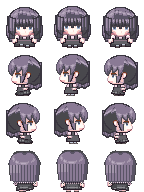
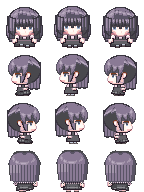
ちびキャラ：横向きにも髪型を反映する（長い髪のまっすぐ・ふんわり、まっすぐな前髪、長い髪の子はボブの形を描かない）
Claude-Session: https://claude.ai/code/session_017gxvkc2TW4xYgG5MuSL3N1

diff --git a/files.js b/files.js
@@ -2,7 +2,7 @@
 // マップなどを足したら scripts に1行足す（順番どおりに読み込む。main.js は最後）。
 // 版の番号 v は tools/stamp.py が書き換える。
 window.FILES = {
-  v: '20261127062417',
+  v: '20261127062615',
   scripts: [
     'engine/core.js',
     'engine/world.js',

diff --git a/tools/sprites/make_chibi.py b/tools/sprites/make_chibi.py
@@ -547,7 +547,10 @@ def long_hair_back(c, side):
     if side == 'down':
         a.part([('p', [(-15.6, 16), (15.6, 16), (16.6, 38 - d), (14.4, 43.6 - d), (11, 42.4 - d), (8, L), (-8, L), (-11, 42.4 - d), (-14.4, 43.6 - d), (-16.6, 38 - d)])],
                c['hair1'], c['hair2'], shade=c['hair2'], line=c['hairLine'])
-    else:  # 横向き：背中側に流れる
+    elif c.get('long_style') == 'straight':  # 横向き・まっすぐ：背中に沿って細く、まっすぐ下りる
+        a.part([('p', [(1, 14), (15.2, 14), (15, 30), (13.6, L - 1), (12, L), (9.6, L - 0.6), (7, L), (4.6, L - 1), (3.6, 30)])],
+               c['hair1'], c['hair2'], shade=c['hair2'], line=c['hairLine'])
+    else:  # 横向き・ふんわり：背中側に広がって流れる
         a.part([('p', [(1, 14), (15.6, 14), (16.4, 34 - d), (15.6, 41 - d), (12.4, L), (9.6, 41.6 - d), (6, 43.6 - d), (3.4, 36 - d), (3, 30)])],
                c['hair1'], c['hair2'], shade=c['hair2'], line=c['hairLine'])
     return a
@@ -568,7 +571,7 @@ def head(a, c, side):
         return
     if side == 'left':
         # 横向き：顔は頭の前・下寄り（x −12〜+1）、後ろに耳。いちばん前の前髪は額の前に垂れる
-        if girl:  # 後ろ髪はあごの高さまで
+        if girl and not c.get('long'):  # 後ろ髪はあごの高さまで（長い髪の子は後ろ髪の層だけで描く）
             a.part([('p', [(1, 14), (15.6, 14), (15.4, 32.6), (10.4, 35.2), (3, 32)])], c['hair1'], c['hair2'], shade=c['hair2'], line=c['hairLine'])
         hm = a.part([('e', -14.2, 7 if girl else 6.4, 14.6, 33)], c['hair1'], c['hair2'], shade=c['hair2'], line=c['hairLine'])
         if isinstance(a, Pixel):
@@ -780,6 +783,8 @@ BANGS_SIDE = (-16, 10, [
 
 def bangs_side(im, c):
     x0, y0, rows = BANGS_SIDE
+    if c.get('bangs') == 'straight':  # まっすぐな前髪：束の間から額をのぞかせず、毛先を目の上でそろえる
+        rows = [''.join('D' if ch in '1234' and y0 + j < 24 else ch for ch in r) for j, r in enumerate(rows)]
     if c['girl']:
         t = [rgb(h) for h in c.get('tones', HAIR_TONES)]
     else:

diff --git a/CLAUDE.md b/CLAUDE.md
@@ -11,7 +11,7 @@
 - 参考にした市販ゲームのファイル（データ・画像・音・シナリオ）はこのリポジトリに入れない
 - タイル素材（ドット絵世界）は二次配布禁止。元のPNGは入れず、`tools/encode_tileset.py` で変換した `data/tilesets/*.js` だけを入れる。タイトル画面の著作権表示（system.js の credits）は消さない
 - キャラの歩行グラフィックは、いまはちびキャラ（手本：RPGツクールMVの標準キャラの比率、約1.5頭身、1コマ48×48px）。`tools/sprites/make_chibi.py` で描き、`img/chars/haru_chibi.png`・`img/chars/yui_chibi.png` に書き出す。塗りは手本と同じくっきりしたドット絵（48×48pxに直接描く。ベタ塗り、段をつけた影と光、部品ごとに1ドットの濃い輪郭、目は1ドットずつ形を決め、白い光はほぼ使わず外側の白目と上が濃い瞳で表す。髪のかたまりは小さめで額は高め、前髪には毛束の明るい筋を1本おきに入れて凹凸を出す。女子の髪は5段（光・明・中・暗・影）で束ごとに塗り分ける（make_chibi.py の hair_shade。頭頂はつむじから放射状の束で境目に暗い線、頭の丸みに沿って束ごとに上下へずれたギザギザの天使の輪（束の真ん中だけ光の色）、前髪は束ごとに上が明るく下ほど暗く真ん中に光の筋、横・後ろの髪は縦の束で左が明るく右と下が暗い。髪型が手本と違うので、ここは手本を写さず工夫したもの）。胴は肩が細く裾へ広がる八の字で、腕も外へ開く。前髪の毛先は目の上端に接するまで下ろし、真ん中の毛束だけ短くしてそのすき間から額をのぞかせる。前髪のすぐ下の肌には影（1段目は影色、2段目は中間色）。顔の横の髪で、目の外側の端からあごの近くまで顔を縁取る（男子は細く短め）。肌は桃色がかった色（白っぽくしない）。顔は上下と左右に4段（明・中間・影・濃い影）の明暗をドット単位でつけて立体感を出す（前髪の下は中間色→目の下から頬の段がいちばん明るい→その下は中間色→あごの段は影色。左右の端は内側へ濃い影→影→中間色、頬の段は影を1段多く）。目はまるごと見せる。やや上から見下ろしつつ足先まで全身を見せる（胴→スカート／ズボン→脚1ドット（女子は肌色）→靴2ドット（上が明るく下が暗い）。左右の足は幅5ドット（輪郭＋中身3）で間に1ドットのすき間。歩くと上げた足が1ドット上がる）。目は顔の大きさを変えずに大きく、5×5ドット（上まつげは3ドット幅で2段目が内側へ1ドットずれる斜め、黒目3ドット幅で上が濃く一番下が明るい、真ん中に縦2ドットの瞳孔、白目は外側3段・内側2段の両側）。目の間は7ドットで、目の外側は顔の縁（横の髪）に接する。見下ろす角度なので、肩はあごのすぐ下の行から始まり（上の面が明るく見える）、なで肩で下へ広がる。手は丸ではなくミトン形（幅4×高さ5、外側の輪郭は茶色・内側と下は濃い線で腕と胴の境目にもなる、明るい肌は真ん中上寄りに2×2、下の段の内側が欠けてその上に親指の付け根の点）。服の輪郭も濃い色。男子はシャツ6段・ベルト1段・ズボン3段（明るめの色、股の線）。女子のスカートは下半分に、地より濃い色の縦の折り目の線（中心をはさんで4ドット間隔の2本と、裾の両端寄り）。口は省いて、鼻は中心の1ドット右に縦2ドットの薄い影（30〜31行、肌の中間色と影色の間の色）で表す（真ん中に濃い点を置くと口に見える）。頬の赤みは鼻より下（32〜33行）に置く（高い位置に置くと鼻が口に見える）。幅の割合は、手を含めた体が頭の約8割。その中で胴は細く、肩と手を大きめにする）。横向き（左向き、前がマイナス）は、顔と胴の形を make_chibi.py の「行ごとの前端・後端の表」（FACE_SIDE・TORSO_SIDE_* など）で決める。手本を拡大して各行の端の位置を測り、その数字をそのまま表に書く（楕円や多角形で近似しない）。横顔は鼻筋がまっすぐ縦に続いたあと鼻で1ドット前に出て（鼻筋から下は顔より前に髪の輪郭を残さない）、その下で輪郭1ドット分の落差をつけてあごへ。あごは34行で終わり（下に出っ張らせない）、前の縁は輪郭線なしで濃い肌色、あごの下だけ濃い輪郭。目は make_chibi.py の EYE_SIDE の表で描く（手本を1ドットずつ測った作り：x −9〜−4、24〜29行。茶色の上まぶたの線が目尻まで続き、黒いまつげ、前の縁は黒、黒目は2ドット幅で上の段に瞳孔、白目は白と灰色の2列、目尻は濃い影の肌、いちばん下の段は明るい黒目。女子は目尻の列が髪にかかる）。目の前端は鼻筋から肌4ドット後ろ。耳のまわりは make_chibi.py の EAR_SIDE_BOY／EAR_SIDE_GIRL の表で描く（手本を1ドットずつ測った作り：縦長のアーモンド形の耳で、上の縁は茶色、前の縁は黒、真ん中がいちばん明るい。耳の前はもみあげの髪で、顔側の縁は暗い髪色。もみあげの下の縁は耳の前から左下へ下りる黒い斜めの線（女子はあごの近くまで垂れる）。耳の下はあご・首の肌が後ろへ続き、その後ろの髪は影の色）。前髪は make_chibi.py の BANGS_SIDE の表で描く（手本を1ドットずつ測った作り：x −16〜+3、10〜26行。前の縁は黒ではなく暗い髪色で、上から前へふくらみ、いちばん前の束は26行まで垂れて顔の前を覆う。前・真ん中・耳の前の3本の束に分かれ、束の間から21〜24行で肌がのぞく。18行から下は束の境目に暗い線、光は前上と後ろ寄りの2か所。色は5段に置き換える）。明暗は前の縁が濃い影、前寄りの頬が最も明るく、耳に近い後ろほど暗い。女子の後ろ髪はあごの高さまで。胴は上が細く（36行で9〜10ドット）前の縁を斜めに下へ広げ、スカート・ズボンの広さとの落差を出す。手は胴の中ほどより後ろに4×5ドット。足元はスカート・ズボンの裾の輪郭が45行、その下は脚1段＋靴1段の2段だけ（46・47行）。靴は脚より1ドット前に出たつま先で表し、輪郭は黒ではなく靴の暗い色。立ち姿は前後の足が並び（46行 −5〜+2、47行 −6〜+2）、歩きのコマ（0・2）の足まわりは make_chibi.py の WALK_SIDE_BOY／WALK_SIDE_GIRL の表で描く（手本を1ドットずつ測った作り：男子は裾が前後の脚に分かれて間に黒い線、前の靴が大きく前に出て3段、後ろの足は脚の上に靴。女子はスカートが歩きに合わせて広がり46行まで下がって、その下は靴だけ。ハルは長ズボンなので手本の素足の部分はズボンの色）。後ろ向きは make_chibi.py の back_frame が tools/sprites/back_tables.py の表から描く（表は gen_back_tables.py で手本の後ろ向きを役割ごとの記号に書き起こしたもの。手本の中心の列（−1）をうちの中心で3列に広げて左右の幅を正面とそろえる。ハルは長ズボンなので足元の肌はズボンの色。ユイは手本のカチューシャを消して頭の上を丸いドームに削り、リボンを左上に足す）。手本を使うときは、拡大して絵そのものを見比べるのに加えて、行ごとの端の位置（前端・後端・上下の終わり）を手本とうちで並べて書き出し、1行ずつずれを確かめてから直す（ざっくりした観察で済ませない）。手順はいつも次のとおりにし、ユーザーに細かく指示されなくても全部やってから報告する：(1) `python3 -I tools/sprites/compare_ref.py 手本.png 向き コマ [行 行 列 列]` で、行ごとの左右の端を手本の男子・ハル・手本の女子・ユイで並べ、指定範囲を色の記号で書き出す（拡大画像は /tmp/compare_*.png）。(2) 部分（頭の形・前髪・目・鼻・耳・首元・肩・胴・手・裾・足）ごとに、端の位置と色の作りを手本と照らす。(3) 違う部分は、形は行ごとの端の表、中身は手本から書き起こした記号の表で描く（色はキャラごとに置き換える）。(4) 直したら同じ道具で全行を確かめ直す。基準は、左の端が手本と同じで、右の端は左右対称（手本の中心は −1、うちは 0 なので手本より右に2ドット広い）。歩きのコマのように手本が左右非対称な行は「右の端が手本より2ドット外」。(5) 歩きの3コマ・4方向とも同じことをする。手本の画像はユーザーがアップロードしたもの（作業環境の uploads）で、リポジトリには入れない。端は肌の色だけでなく、髪や輪郭も含めた「透明でない最も外側の点」で測る（肌だけ測ると、顔の前にはみ出した髪の輪郭で鼻が平らになっているのを見落とす）。「イラストを縮めた柔らかい塗り」は4頭身のための試しで、ちびキャラには使わない。3頭身・4頭身は見送り。約4頭身の版（`make_trial.py`→`trial.png`、`make_haru.py`→`haru.png`）も残してある。手本の絵は写さない（比率と描き方だけ合わせる）。直したらスクリプトを動かして画像を作り直す
-- 新しいキャラを足すときは、make_chibi.py の CHARS に1項目足すだけでよい（girl=True/False と色：髪 hair1/hair2/hairL/hairLine、女子は髪の5段 tones、瞳 iris1〜3、服 top1/top2/topLine、ズボン・スカート low1/low2、靴 shoe1/shoe2、リボン ribbon1/ribbon2）。目・顔の明暗・髪の束の塗り分け・横顔・耳・手・足・歩き・後ろ姿は、絵を貼るのではなく決まりと表から描くので、どのキャラにも自動でつく。顔がみな同じにならないよう、目の型を eye で選ぶ（無し＝ハル・ユイの目、'tare'＝控えめなたれ目、'tare2'＝しっかりたれ目（上まつげが目頭から目尻へ斜めに下がる）、'tsuri'＝つり目。make_chibi.py の EYE_TYPES に正面と横向きの表があり、型を足すのはここ）。頬の赤みは cheek=False で消せる。そのほか設定で選べるもの：long（太ももまでの長い後ろ髪。体より先に描く層で、縦の束で塗る）、ahoge（頭の上のとがった毛束）、bows（頭の左右の大きなリボンと垂れた帯。色は ribbon1/ribbon2）、mouth='open'（笑った口）、turtleneck（うね編みの高い襟）、sleeves（手の上を覆う長い袖口）、pleats=False（スカートの折り目なし）、tie=False（胸のリボンなし）、hairclip=False（ユイの髪留めなし）。long_len（長い後ろ髪の毛先の行。44＝太もも、39＝胸のあたり）、long_style（'straight'＝まっすぐ下りる、'fluffy'＝肩の外までふくらむ。後ろ向きは、土台の表の髪は頭の上（20行より上）だけ使い、首から下はこの設定から描き直すので、髪型が後ろ姿にも出る。髪型の型を足したら必ず後ろ向きも確かめる）、bangs='straight'（額を覆うまっすぐな前髪。両目の間に少し長い毛束）、eye='almond'（横長で縦に1段細いアーモンド形の目）、pinafore（ブラウスの上に太い肩ひも2本とウエストの帯のジャンパースカート。肩ひもとスカートは low1/low2）、longskirt（裾を1段下げた長いスカート）、legColor（脚の色。靴下など）。肌の色（skin1/skin2/skinS/handO）やまつげの色（lash）もキャラごとに上書きできる。キャラの見た目はユーザーが文章で細かく指定する方式（例：kosui_chibi）。いま選べる髪型は男子（ツンツンの短髪）と女子（ボブと顔の横の髪）の2つ。別の髪型や服の形がほしいときは、その部分だけ新しい型として足す（キャラごとに決めるのはそこだけ）。試しに mio_chibi・sota_chibi を色だけで作ってある（ゲームではまだ使っていない）。手本の全12コマを記号の表に書き起こす gen_ref_tables.py と、それを土台に描く make_from_ref.py もある（手本そのままの体・顔を土台にしたいとき用）
+- 新しいキャラを足すときは、make_chibi.py の CHARS に1項目足すだけでよい（girl=True/False と色：髪 hair1/hair2/hairL/hairLine、女子は髪の5段 tones、瞳 iris1〜3、服 top1/top2/topLine、ズボン・スカート low1/low2、靴 shoe1/shoe2、リボン ribbon1/ribbon2）。目・顔の明暗・髪の束の塗り分け・横顔・耳・手・足・歩き・後ろ姿は、絵を貼るのではなく決まりと表から描くので、どのキャラにも自動でつく。顔がみな同じにならないよう、目の型を eye で選ぶ（無し＝ハル・ユイの目、'tare'＝控えめなたれ目、'tare2'＝しっかりたれ目（上まつげが目頭から目尻へ斜めに下がる）、'tsuri'＝つり目。make_chibi.py の EYE_TYPES に正面と横向きの表があり、型を足すのはここ）。頬の赤みは cheek=False で消せる。そのほか設定で選べるもの：long（太ももまでの長い後ろ髪。体より先に描く層で、縦の束で塗る）、ahoge（頭の上のとがった毛束）、bows（頭の左右の大きなリボンと垂れた帯。色は ribbon1/ribbon2）、mouth='open'（笑った口）、turtleneck（うね編みの高い襟）、sleeves（手の上を覆う長い袖口）、pleats=False（スカートの折り目なし）、tie=False（胸のリボンなし）、hairclip=False（ユイの髪留めなし）。long_len（長い後ろ髪の毛先の行。44＝太もも、39＝胸のあたり）、long_style（'straight'＝まっすぐ下りる、'fluffy'＝肩の外までふくらむ。横向きでも形が変わり（まっすぐは背中に沿って細く、ふんわりは広がる）、長い髪の子は横向きにあごまでのボブの形を描かない。bangs='straight' は横向きでも額をのぞかせない。後ろ向きは、土台の表の髪は頭の上（20行より上）だけ使い、首から下はこの設定から描き直すので、髪型が後ろ姿にも出る。髪型の型を足したら必ず後ろ向きも確かめる）、bangs='straight'（額を覆うまっすぐな前髪。両目の間に少し長い毛束）、eye='almond'（横長で縦に1段細いアーモンド形の目）、pinafore（ブラウスの上に太い肩ひも2本とウエストの帯のジャンパースカート。肩ひもとスカートは low1/low2）、longskirt（裾を1段下げた長いスカート）、legColor（脚の色。靴下など）。肌の色（skin1/skin2/skinS/handO）やまつげの色（lash）もキャラごとに上書きできる。キャラの見た目はユーザーが文章で細かく指定する方式（例：kosui_chibi）。いま選べる髪型は男子（ツンツンの短髪）と女子（ボブと顔の横の髪）の2つ。別の髪型や服の形がほしいときは、その部分だけ新しい型として足す（キャラごとに決めるのはそこだけ）。試しに mio_chibi・sota_chibi を色だけで作ってある（ゲームではまだ使っていない）。手本の全12コマを記号の表に書き起こす gen_ref_tables.py と、それを土台に描く make_from_ref.py もある（手本そのままの体・顔を土台にしたいとき用）
 - 字体：ゲームの文字は M+ 1m（`fonts/mplus-1m-regular.ttf`、M+ FONTS は自由に使用・配布できる）。`G.font()` と css/style.css で指定している。収録外の文字（♪など）は端末のフォントになる
 - 公開は gh-pages ブランチから。更新したら、まず `python3 tools/stamp.py`（files.js の版の番号を新しくする。ブラウザが古いファイルを使い回して新旧が混ざるのを防ぐ）、コミットして `git push origin main main:gh-pages` で両方に送る。そのあと `gh api repos/nzanke/game-test/actions/runs` で「pages build and deployment」が新しいコミットで completed success になったのを確かめてから報告する。ビルドが走らないときは空のコミットを送り直す（Pages 設定のAPIは作業環境から使えない）
 - やりとりと説明は日本語で
